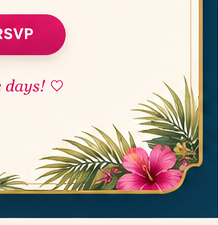
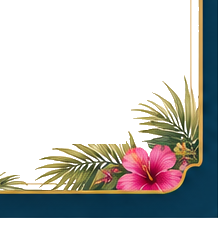
make links work on adventure page

diff --git a/explore.html b/explore.html
@@ -1,4 +1,4 @@
-<!doctype html><html lang="en"><head><meta charset="utf-8"><meta name="viewport" content="width=device-width,initial-scale=1"><title>Explore the Ship | Julia & Wesley</title><link rel="stylesheet" href="css/site.css?v=19"></head><body><main class="page-shell explore-shell"><img class="approved-page" src="assets/approved/explore.png" alt="Explore the Ship approved design">
+<!doctype html><html lang="en"><head><meta charset="utf-8"><meta name="viewport" content="width=device-width,initial-scale=1"><title>Explore the Ship | Julia & Wesley</title><link rel="stylesheet" href="css/site.css?v=20"></head><body><main class="page-shell explore-shell"><img class="approved-page" src="assets/approved/explore.png" alt="Explore the Ship approved design">
 <a class="hotspot" aria-label="Home" href="index.html?skip=1" style="left:14%;top:1%;width:10%;height:4%"></a><a class="hotspot" aria-label="Our Story" href="our-story.html" style="left:25%;top:1%;width:13%;height:4%"></a><a class="hotspot" aria-label="The Adventure" href="adventure.html" style="left:39%;top:1%;width:16%;height:4%"></a><a class="hotspot" aria-label="Explore" href="explore.html" style="left:56%;top:1%;width:10%;height:4%"></a><a class="hotspot" aria-label="Travel" href="travel.html" style="left:67%;top:1%;width:9%;height:4%"></a><a class="hotspot" aria-label="RSVP" href="rsvp.html" style="left:77%;top:.5%;width:13%;height:5%"></a>
 <div class="ship-interactive" id="ship-interactive" aria-label="Drag the aerial ship view to rotate and use the mouse wheel to zoom"><img src="assets/approved/ship-map-crop.jpg" alt="Aerial deck map of Harmony of the Seas"></div>
 <button class="hotspot neighborhood" data-neighborhood="pool" style="left:23%;top:47.2%;width:13%;height:3%" aria-label="Show Pool Deck"></button><button class="hotspot neighborhood" data-neighborhood="central" style="left:40%;top:47.2%;width:15%;height:3%" aria-label="Show Central Park"></button><button class="hotspot neighborhood" data-neighborhood="entertainment" style="left:58%;top:47.2%;width:19%;height:3%" aria-label="Show Entertainment Place"></button><button class="hotspot neighborhood" data-neighborhood="spa" style="left:83%;top:51%;width:13%;height:3%" aria-label="Show Vitality Spa"></button><button class="hotspot neighborhood" data-neighborhood="boardwalk" style="left:20%;top:56.9%;width:14%;height:3%" aria-label="Show Boardwalk"></button><button class="hotspot neighborhood" data-neighborhood="promenade" style="left:39%;top:57%;width:18%;height:3%" aria-label="Show Royal Promenade"></button><button class="hotspot neighborhood" data-neighborhood="youth" style="left:61%;top:57%;width:13%;height:3%" aria-label="Show Youth Zone"></button>

diff --git a/cococay.html b/cococay.html
@@ -1,1 +1,1 @@
-<!doctype html><html lang="en"><head><meta charset="utf-8"><meta name="viewport" content="width=device-width,initial-scale=1"><title>Perfect Day at CocoCay | Julia & Wesley</title><link rel="stylesheet" href="css/site.css?v=19"></head><body><main class="page-shell"><img class="approved-page" src="assets/approved/cococay.png" alt="Perfect Day at CocoCay approved design"><a class="hotspot" aria-label="Home" href="index.html?skip=1" style="left:14%;top:1%;width:10%;height:4%"></a><a class="hotspot" aria-label="Our Story" href="our-story.html" style="left:25%;top:1%;width:13%;height:4%"></a><a class="hotspot" aria-label="The Adventure" href="adventure.html" style="left:39%;top:1%;width:16%;height:4%"></a><a class="hotspot" aria-label="Explore" href="explore.html" style="left:56%;top:1%;width:10%;height:4%"></a><a class="hotspot" aria-label="Travel" href="travel.html" style="left:67%;top:1%;width:9%;height:4%"></a><a class="hotspot" aria-label="RSVP" href="rsvp.html" style="left:76%;top:.3%;width:15%;height:5%"></a></main></body></html>
+<!doctype html><html lang="en"><head><meta charset="utf-8"><meta name="viewport" content="width=device-width,initial-scale=1"><title>Perfect Day at CocoCay | Julia & Wesley</title><link rel="stylesheet" href="css/site.css?v=20"></head><body><main class="page-shell"><img class="approved-page" src="assets/approved/cococay.png" alt="Perfect Day at CocoCay approved design"><a class="hotspot" aria-label="Home" href="index.html?skip=1" style="left:14%;top:1%;width:10%;height:4%"></a><a class="hotspot" aria-label="Our Story" href="our-story.html" style="left:25%;top:1%;width:13%;height:4%"></a><a class="hotspot" aria-label="The Adventure" href="adventure.html" style="left:39%;top:1%;width:16%;height:4%"></a><a class="hotspot" aria-label="Explore" href="explore.html" style="left:56%;top:1%;width:10%;height:4%"></a><a class="hotspot" aria-label="Travel" href="travel.html" style="left:67%;top:1%;width:9%;height:4%"></a><a class="hotspot" aria-label="RSVP" href="rsvp.html" style="left:76%;top:.3%;width:15%;height:5%"></a></main></body></html>

diff --git a/pickleball.html b/pickleball.html
@@ -1,1 +1,1 @@
-<!doctype html><html lang="en"><head><meta charset="utf-8"><meta name="viewport" content="width=device-width,initial-scale=1"><title>The Dink Before I Do | Julia & Wesley</title><link rel="stylesheet" href="css/site.css?v=19"></head><body><main class="page-shell"><img class="approved-page" src="assets/approved/pickleball.png" alt="The Dink Before I Do approved design"><a class="hotspot" aria-label="Home" href="index.html?skip=1" style="left:14%;top:1%;width:10%;height:4%"></a><a class="hotspot" aria-label="Our Story" href="our-story.html" style="left:25%;top:1%;width:13%;height:4%"></a><a class="hotspot" aria-label="The Adventure" href="adventure.html" style="left:39%;top:1%;width:16%;height:4%"></a><a class="hotspot" aria-label="Explore" href="explore.html" style="left:56%;top:1%;width:10%;height:4%"></a><a class="hotspot" aria-label="Travel" href="travel.html" style="left:67%;top:1%;width:9%;height:4%"></a><a class="hotspot" aria-label="RSVP" href="rsvp.html" style="left:76%;top:.3%;width:15%;height:5%"></a></main></body></html>
+<!doctype html><html lang="en"><head><meta charset="utf-8"><meta name="viewport" content="width=device-width,initial-scale=1"><title>The Dink Before I Do | Julia & Wesley</title><link rel="stylesheet" href="css/site.css?v=20"></head><body><main class="page-shell"><img class="approved-page" src="assets/approved/pickleball.png" alt="The Dink Before I Do approved design"><a class="hotspot" aria-label="Home" href="index.html?skip=1" style="left:14%;top:1%;width:10%;height:4%"></a><a class="hotspot" aria-label="Our Story" href="our-story.html" style="left:25%;top:1%;width:13%;height:4%"></a><a class="hotspot" aria-label="The Adventure" href="adventure.html" style="left:39%;top:1%;width:16%;height:4%"></a><a class="hotspot" aria-label="Explore" href="explore.html" style="left:56%;top:1%;width:10%;height:4%"></a><a class="hotspot" aria-label="Travel" href="travel.html" style="left:67%;top:1%;width:9%;height:4%"></a><a class="hotspot" aria-label="RSVP" href="rsvp.html" style="left:76%;top:.3%;width:15%;height:5%"></a></main></body></html>

diff --git a/wedding-day.html b/wedding-day.html
@@ -1,1 +1,1 @@
-<!doctype html><html lang="en"><head><meta charset="utf-8"><meta name="viewport" content="width=device-width,initial-scale=1"><title>Wedding Day | Julia & Wesley</title><link rel="stylesheet" href="css/site.css?v=19"></head><body><main class="page-shell"><img class="approved-page" src="assets/approved/wedding-day.png" alt="Wedding Day approved design"><a class="hotspot" aria-label="Home" href="index.html?skip=1" style="left:14%;top:1%;width:10%;height:4%"></a><a class="hotspot" aria-label="Our Story" href="our-story.html" style="left:25%;top:1%;width:13%;height:4%"></a><a class="hotspot" aria-label="The Adventure" href="adventure.html" style="left:39%;top:1%;width:16%;height:4%"></a><a class="hotspot" aria-label="Explore" href="explore.html" style="left:56%;top:1%;width:10%;height:4%"></a><a class="hotspot" aria-label="Travel" href="travel.html" style="left:67%;top:1%;width:9%;height:4%"></a><a class="hotspot" aria-label="RSVP" href="rsvp.html" style="left:76%;top:.3%;width:15%;height:5%"></a></main></body></html>
+<!doctype html><html lang="en"><head><meta charset="utf-8"><meta name="viewport" content="width=device-width,initial-scale=1"><title>Wedding Day | Julia & Wesley</title><link rel="stylesheet" href="css/site.css?v=20"></head><body><main class="page-shell"><img class="approved-page" src="assets/approved/wedding-day.png" alt="Wedding Day approved design"><a class="hotspot" aria-label="Home" href="index.html?skip=1" style="left:14%;top:1%;width:10%;height:4%"></a><a class="hotspot" aria-label="Our Story" href="our-story.html" style="left:25%;top:1%;width:13%;height:4%"></a><a class="hotspot" aria-label="The Adventure" href="adventure.html" style="left:39%;top:1%;width:16%;height:4%"></a><a class="hotspot" aria-label="Explore" href="explore.html" style="left:56%;top:1%;width:10%;height:4%"></a><a class="hotspot" aria-label="Travel" href="travel.html" style="left:67%;top:1%;width:9%;height:4%"></a><a class="hotspot" aria-label="RSVP" href="rsvp.html" style="left:76%;top:.3%;width:15%;height:5%"></a></main></body></html>

diff --git a/our-story.html b/our-story.html
@@ -1,1 +1,1 @@
-<!doctype html><html lang="en"><head><meta charset="utf-8"><meta name="viewport" content="width=device-width,initial-scale=1"><title>Our Story | Julia & Wesley</title><link rel="stylesheet" href="css/site.css?v=19"></head><body><main class="page-shell"><img class="approved-page" src="assets/approved/our-story.png" alt="Our Story approved design"><a class="hotspot" aria-label="Home" href="index.html?skip=1" style="left:14%;top:1%;width:10%;height:4%"></a><a class="hotspot" aria-label="Our Story" href="our-story.html" style="left:25%;top:1%;width:13%;height:4%"></a><a class="hotspot" aria-label="The Adventure" href="adventure.html" style="left:39%;top:1%;width:16%;height:4%"></a><a class="hotspot" aria-label="Explore" href="explore.html" style="left:56%;top:1%;width:10%;height:4%"></a><a class="hotspot" aria-label="Travel" href="travel.html" style="left:67%;top:1%;width:9%;height:4%"></a><a class="hotspot" aria-label="RSVP" href="rsvp.html" style="left:76%;top:.3%;width:15%;height:5%"></a></main></body></html>
+<!doctype html><html lang="en"><head><meta charset="utf-8"><meta name="viewport" content="width=device-width,initial-scale=1"><title>Our Story | Julia & Wesley</title><link rel="stylesheet" href="css/site.css?v=20"></head><body><main class="page-shell"><img class="approved-page" src="assets/approved/our-story.png" alt="Our Story approved design"><a class="hotspot" aria-label="Home" href="index.html?skip=1" style="left:14%;top:1%;width:10%;height:4%"></a><a class="hotspot" aria-label="Our Story" href="our-story.html" style="left:25%;top:1%;width:13%;height:4%"></a><a class="hotspot" aria-label="The Adventure" href="adventure.html" style="left:39%;top:1%;width:16%;height:4%"></a><a class="hotspot" aria-label="Explore" href="explore.html" style="left:56%;top:1%;width:10%;height:4%"></a><a class="hotspot" aria-label="Travel" href="travel.html" style="left:67%;top:1%;width:9%;height:4%"></a><a class="hotspot" aria-label="RSVP" href="rsvp.html" style="left:76%;top:.3%;width:15%;height:5%"></a></main></body></html>

diff --git a/bingo.html b/bingo.html
@@ -1,1 +1,1 @@
-<!doctype html><html lang="en"><head><meta charset="utf-8"><meta name="viewport" content="width=device-width,initial-scale=1"><title>Bingo | Julia & Wesley</title><link rel="stylesheet" href="css/site.css?v=19"></head><body><main class="page-shell"><img class="approved-page" src="assets/approved/bingo.png" alt="Bingo approved design"><a class="hotspot" aria-label="Home" href="index.html?skip=1" style="left:14%;top:1%;width:10%;height:4%"></a><a class="hotspot" aria-label="Our Story" href="our-story.html" style="left:25%;top:1%;width:13%;height:4%"></a><a class="hotspot" aria-label="The Adventure" href="adventure.html" style="left:39%;top:1%;width:16%;height:4%"></a><a class="hotspot" aria-label="Explore" href="explore.html" style="left:56%;top:1%;width:10%;height:4%"></a><a class="hotspot" aria-label="Travel" href="travel.html" style="left:67%;top:1%;width:9%;height:4%"></a><a class="hotspot" aria-label="RSVP" href="rsvp.html" style="left:76%;top:.3%;width:15%;height:5%"></a></main></body></html>
+<!doctype html><html lang="en"><head><meta charset="utf-8"><meta name="viewport" content="width=device-width,initial-scale=1"><title>Bingo | Julia & Wesley</title><link rel="stylesheet" href="css/site.css?v=20"></head><body><main class="page-shell"><img class="approved-page" src="assets/approved/bingo.png" alt="Bingo approved design"><a class="hotspot" aria-label="Home" href="index.html?skip=1" style="left:14%;top:1%;width:10%;height:4%"></a><a class="hotspot" aria-label="Our Story" href="our-story.html" style="left:25%;top:1%;width:13%;height:4%"></a><a class="hotspot" aria-label="The Adventure" href="adventure.html" style="left:39%;top:1%;width:16%;height:4%"></a><a class="hotspot" aria-label="Explore" href="explore.html" style="left:56%;top:1%;width:10%;height:4%"></a><a class="hotspot" aria-label="Travel" href="travel.html" style="left:67%;top:1%;width:9%;height:4%"></a><a class="hotspot" aria-label="RSVP" href="rsvp.html" style="left:76%;top:.3%;width:15%;height:5%"></a></main></body></html>

diff --git a/css/site.css b/css/site.css
@@ -271,3 +271,54 @@
   .rsvp-option-two .rsvp-floral-bl,.rsvp-option-two .rsvp-floral-br{width:138px!important;height:135px!important}
   .rsvp-option-two .rsvp-luxe-header{padding:0 10px!important}
 }
+
+/* Version 20 — repaired adventure links and clean RSVP footer */
+.adventure-bingo-link{
+  left:77.2%!important;
+  top:37.45%!important;
+  width:20.2%!important;
+  height:2.75%!important;
+  z-index:30!important;
+}
+.adventure-pickleball-link{
+  left:77.2%!important;
+  top:41.72%!important;
+  width:20.8%!important;
+  height:2.75%!important;
+  z-index:30!important;
+}
+.adventure-hotspot{pointer-events:auto!important}
+
+/* Remove all older emoji/pseudo-floral layers so only Option 2 artwork remains. */
+.rsvp-option-two .rsvp-luxe-header:before,
+.rsvp-option-two .rsvp-luxe-header:after,
+.rsvp-option-two .rsvp-luxe-form:before,
+.rsvp-option-two .rsvp-luxe-form:after{
+  content:none!important;
+  display:none!important;
+}
+.rsvp-option-two .rsvp-floral-bl,
+.rsvp-option-two .rsvp-floral-br{
+  width:190px!important;
+  height:150px!important;
+  bottom:0!important;
+  z-index:1!important;
+}
+.rsvp-option-two .rsvp-floral-bl{left:0!important}
+.rsvp-option-two .rsvp-floral-br{right:0!important}
+.rsvp-option-two .rsvp-luxe-form{
+  padding-bottom:84px!important;
+}
+.rsvp-option-two .rsvp-submit,
+.rsvp-option-two .rsvp-script{
+  position:relative!important;
+  z-index:5!important;
+}
+@media(max-width:760px){
+  .rsvp-option-two .rsvp-floral-bl,
+  .rsvp-option-two .rsvp-floral-br{
+    width:125px!important;
+    height:102px!important;
+  }
+  .rsvp-option-two .rsvp-luxe-form{padding-bottom:62px!important}
+}

diff --git a/travel.html b/travel.html
@@ -1,4 +1,4 @@
-<!doctype html><html lang="en"><head><meta charset="utf-8"><meta name="viewport" content="width=device-width,initial-scale=1"><title>Travel & Booking | Julia & Wesley</title><link rel="stylesheet" href="css/site.css?v=19"></head><body><main class="page-shell"><img class="approved-page" src="assets/approved/travel.png" alt="Travel and Booking approved design">
+<!doctype html><html lang="en"><head><meta charset="utf-8"><meta name="viewport" content="width=device-width,initial-scale=1"><title>Travel & Booking | Julia & Wesley</title><link rel="stylesheet" href="css/site.css?v=20"></head><body><main class="page-shell"><img class="approved-page" src="assets/approved/travel.png" alt="Travel and Booking approved design">
 <a class="hotspot" aria-label="Home" href="index.html?skip=1" style="left:11%;top:1%;width:9%;height:4%"></a><a class="hotspot" aria-label="Our Story" href="our-story.html" style="left:20%;top:1%;width:12%;height:4%"></a><a class="hotspot" aria-label="The Adventure" href="adventure.html" style="left:31%;top:1%;width:15%;height:4%"></a><a class="hotspot" aria-label="Explore" href="explore.html" style="left:45%;top:1%;width:13%;height:4%"></a><a class="hotspot" aria-label="Travel" href="travel.html" style="left:57%;top:1%;width:9%;height:4%"></a><a class="hotspot" aria-label="RSVP" href="rsvp.html" style="left:66%;top:.3%;width:12%;height:5%"></a>
 <div class="faq-hotspots" aria-label="Booking FAQs">
 <button data-answer="Cabins will be reserved through Aligned Journeys using the booking link provided here once booking opens." style="left:4%;top:82.0%;width:29%;height:2.8%"></button>

diff --git a/adventure.html b/adventure.html
@@ -1,4 +1,4 @@
-<!doctype html><html lang="en"><head><meta charset="utf-8"><meta name="viewport" content="width=device-width,initial-scale=1"><title>The Adventure | Julia & Wesley</title><link rel="stylesheet" href="css/site.css?v=19"></head><body><main class="page-shell"><img class="approved-page" src="assets/approved/adventure.png" alt="The Adventure cruise itinerary">
+<!doctype html><html lang="en"><head><meta charset="utf-8"><meta name="viewport" content="width=device-width,initial-scale=1"><title>The Adventure | Julia & Wesley</title><link rel="stylesheet" href="css/site.css?v=20"></head><body><main class="page-shell"><img class="approved-page" src="assets/approved/adventure.png" alt="The Adventure cruise itinerary">
 <a class="hotspot" aria-label="Our Story" href="our-story.html" style="left:31%;top:1%;width:11%;height:4%"></a><a class="hotspot" aria-label="The Adventure" href="adventure.html" style="left:42%;top:1%;width:14%;height:4%"></a><a class="hotspot" aria-label="Explore" href="explore.html" style="left:56%;top:1%;width:9%;height:4%"></a><a class="hotspot" aria-label="Travel" href="travel.html" style="left:66%;top:1%;width:8%;height:4%"></a><a class="hotspot" aria-label="RSVP" href="rsvp.html" style="left:74%;top:.5%;width:14%;height:5%"></a>
 <a class="adventure-hotspot adventure-bingo-link" aria-label="Open Bingo Adventure" href="bingo.html" title="Bingo Adventure"></a>
 <a class="adventure-hotspot adventure-pickleball-link" aria-label="Open Pickleball Tournament" href="pickleball.html" title="Pickleball Tournament"></a>

diff --git a/index.html b/index.html
@@ -1,4 +1,4 @@
-<!doctype html><html lang="en"><head><meta charset="utf-8"><meta name="viewport" content="width=device-width,initial-scale=1"><title>Julia & Wesley</title><link rel="stylesheet" href="css/site.css?v=19"></head><body>
+<!doctype html><html lang="en"><head><meta charset="utf-8"><meta name="viewport" content="width=device-width,initial-scale=1"><title>Julia & Wesley</title><link rel="stylesheet" href="css/site.css?v=20"></head><body>
 <section class="welcome-gate" id="welcome-gate" aria-labelledby="welcome-title">
   <div class="welcome-card">
     <div class="welcome-anchor">⚓</div>

diff --git a/rsvp.html b/rsvp.html
@@ -4,7 +4,7 @@
   <meta charset="utf-8">
   <meta name="viewport" content="width=device-width,initial-scale=1">
   <title>RSVP | Julia & Wesley</title>
-  <link rel="stylesheet" href="css/site.css?v=19">
+  <link rel="stylesheet" href="css/site.css?v=20">
 </head>
 <body class="rsvp-body rsvp-luxe-body">
   <nav class="real-nav rsvp-nav" aria-label="Primary navigation">
